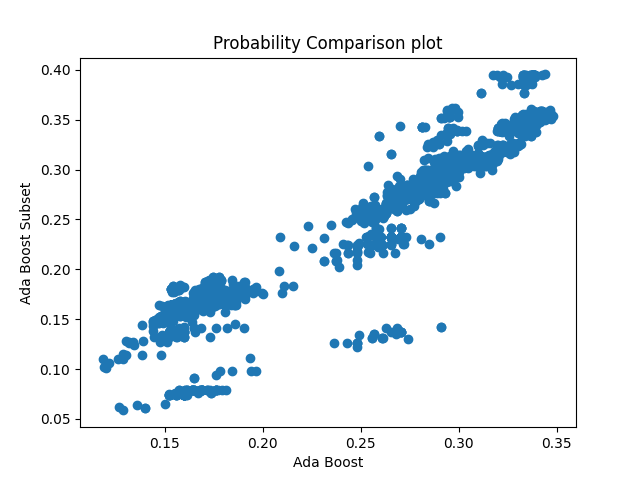
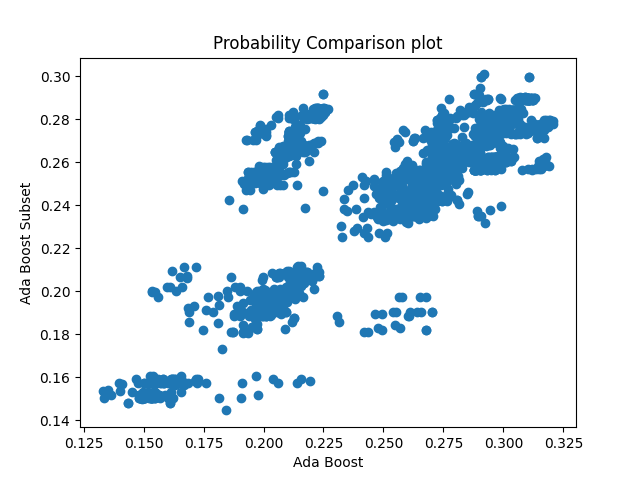
Hyperparameter tuning for ada and rf

diff --git a/modelling.py b/modelling.py
@@ -139,35 +139,48 @@ print("Perform Analysis:")
 
 testPreds = {}
 
-print("\nLogit Regression")
-best_logit = hyperparamTuning(LogisticRegression(multi_class='multinomial', solver='saga', max_iter = 1000000, class_weight = 'balanced'),
-                              {
-                                  'penalty': ['l2'],
-                                  'C': [1.0]
-                              },
-                              df_train,
-                              df_test)
-testPredLogit, testPredSubsetLogit = fitPredictModel(best_logit,
-                                                     df_train,
-                                                     df_test)
-testPreds["Logit"] = testPredLogit
-testPreds["Logit Subset"] = testPredSubsetLogit
+# print("\nLogit Regression")
+# best_logit = hyperparamTuning(LogisticRegression(multi_class='multinomial', solver='saga', max_iter = 1000000, class_weight = 'balanced'),
+#                               {
+#                                   'penalty': ['l2'],
+#                                   'C': [1.0]
+#                               },
+#                               df_train,
+#                               df_test)
+# testPredLogit, testPredSubsetLogit = fitPredictModel(best_logit,
+#                                                      df_train,
+#                                                      df_test)
+# testPreds["Logit"] = testPredLogit
+# testPreds["Logit Subset"] = testPredSubsetLogit
 
 
-# print("\nRandom Forest")
-# testPredRf, testPredSubsetRf = fitPredictModel(RandomForestClassifier(n_estimators=1400, max_depth=220, max_features='auto', class_weight = 'balanced'),
-#                                                df_train,
-#                                                df_test)
-# testPreds["Random Forest"] = testPredRf
-# testPreds["Random Forest Subset"] = testPredSubsetRf
+print("\nRandom Forest")
+best_rf = hyperparamTuning(RandomForestClassifier(class_weight = 'balanced'),
+                          {
+                              'n_estimators': [100, 500, 1000, 1500],
+                              'max_depth': [1, 10, None]
+                          },
+                          df_train,
+                          df_test)
+testPredRf, testPredSubsetRf = fitPredictModel(best_rf,
+                                               df_train,
+                                               df_test)
+testPreds["Random Forest"] = testPredRf
+testPreds["Random Forest Subset"] = testPredSubsetRf
 
 
-# print("\nAda Boost")
-# testPredAda, testPredSubsetAda = fitPredictModel(AdaBoostClassifier(),
-#                                                  df_train,
-#                                                  df_test)
-# testPreds["Ada Boost"] = testPredAda
-# testPreds["Ada Boost Subset"] = testPredSubsetAda
+print("\nAda Boost")
+best_ada = hyperparamTuning(AdaBoostClassifier(),
+                           {
+                               'n_estimators': [50,100,500,1000]
+                           },
+                           df_train,
+                           df_test)
+testPredAda, testPredSubsetAda = fitPredictModel(best_ada,
+                                                 df_train,
+                                                 df_test)
+testPreds["Ada Boost"] = testPredAda
+testPreds["Ada Boost Subset"] = testPredSubsetAda
 
 # for each method, create comparison plots probabilities vs other method
 comparisons = combinations(testPreds.keys(), 2)
